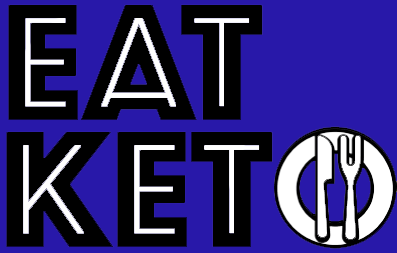
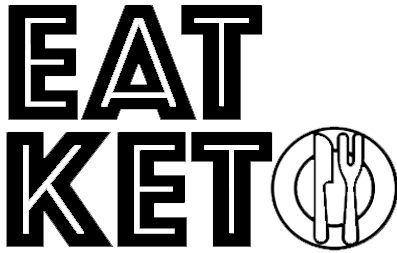
new theme color

diff --git a/src/components/layout/header.js b/src/components/layout/header.js
@@ -3,14 +3,14 @@ import PropTypes from 'prop-types';
 import AppBar from '@material-ui/core/AppBar';
 import Toolbar from '@material-ui/core/Toolbar';
 import IconButton from '@material-ui/core/IconButton';
-import Typography from '@material-ui/core/Typography';
 import MenuItem from '@material-ui/core/MenuItem';
 import Menu from '@material-ui/core/Menu';
 import { withStyles } from '@material-ui/core/styles';
 import AccountCircle from '@material-ui/icons/AccountCircle';
 import MoreIcon from '@material-ui/icons/MoreVert';
 
-import eatketoLogo from '../../assets/images/keto-eat.png';
+import eatketoLogo2 from '../../assets/images/keto-eat2.png';
+// import eatketoLogo from '../../assets/images/keto-eat.png';
 
 const styles = theme => ({
     root: {
@@ -136,10 +136,7 @@ class Header extends React.Component {
             <div className={classes.root}>
                 <AppBar position="fixed">
                     <Toolbar>
-                        <img src={eatketoLogo} alt="eat keto logo" className="logo" />
-                        {/* <Typography className={classes.title} variant="h6" color="inherit" noWrap>
-                            Keto Recipes App
-                        </Typography> */}
+                        <img src={eatketoLogo2} alt="eat keto logo" className="logo" />
 
                         <div className={classes.grow} />
                         <div className={classes.sectionDesktop}>

diff --git a/src/components/RecipeCards.js b/src/components/RecipeCards.js
@@ -53,10 +53,10 @@ const styles = theme => ({
   },
   fab: {
     margin: theme.spacing.unit,
-    backgroundColor: '#FF5722',
+    backgroundColor: '#0c5d3a',
     color: '#ffffff',
     "&:hover": {
-      backgroundColor: '#D84315'
+      backgroundColor: '#128854'
     }
   },
   cardGrid: {
@@ -73,7 +73,7 @@ const styles = theme => ({
   },
   cardContent: {
     flexGrow: 1,
-    backgroundColor: '#b3e5fc',
+    backgroundColor: '#80cbc4',
     padding: '5px',
     "&:last-child": {
       paddingBottom: '5px'
@@ -82,7 +82,7 @@ const styles = theme => ({
   container: {
     flexWrap: 'wrap',
     textAlign: 'center',
-    backgroundColor: '#b3e5fc',
+    backgroundColor: '#80cbc4',
     height: '100%'
   },
   typography: {
@@ -97,10 +97,10 @@ const styles = theme => ({
     marginLeft: theme.spacing.unit,
     width: 170,
     float: 'right',
-    backgroundColor: '#FF5722',
+    backgroundColor: '#0c5d3a',
     color: '#ffffff',
     "&:hover": {
-      backgroundColor: '#D84315'
+      backgroundColor: '#128854'
     },
     [theme.breakpoints.down('sm')]: {
       float: 'none',

diff --git a/src/App.css b/src/App.css
@@ -9,13 +9,18 @@ html {
   font-family: 'Lato', 'Arial', sans-serif;
   font-size: 14px;
   font-weight: 300;
-  color: #555;
+  background-color: #f5f5f5;
+  /* color: #555; */
   text-rendering: optimizeLegibility; /*makes fonts render nicely*/
 }
 
-body {
-  background-color: #FBE9E7;
+main {
+  background-color: #f5f5f5;
 }
+
+/* body {
+  
+} */
 
 .logo {
   width: 130px;
@@ -23,8 +28,7 @@ body {
 }
 
 .modal-dialog {
-  background-color: #FBE9E7;
-  /* background-color: #b3e5fc; */
+  background-color: #f5f5f5;
   height: 100%;
 }
 
@@ -108,11 +112,12 @@ padding-right: 20px;
 .foot-link {
   text-align: center;
   padding: 12px;
-  color: #FF5722;
+  color: #128854;
 }
 
 .foot-link:hover {
   font-weight: bold;
+  color: #4f9689;
 }
 
 .social-icons{

diff --git a/src/App.js b/src/App.js
@@ -14,20 +14,20 @@ import MuiThemeProvider from '@material-ui/core/styles/MuiThemeProvider';
 const theme = createMuiTheme({
   palette: {
     primary: {
-      light: '#e6ffff',
-      main: '#2818a9',
-      dark: '#006db3',
+      light: '#9c786c',
+      main: '#4d394b',
+      dark: '#40241a',
       contrastText: '#ffffff',
     },
     secondary: {
-      light: '#7b5e57',
-      main: '#4e342e',
-      dark: '#260e04',
+      light: '#8f9bff',
+      main: '#536dfe',
+      dark: '#0043ca',
       contrastText: '#000000',
     },
     text: {
-      primary: '#1a237e',
-      secondary: '#000a12',
+      primary: '#4b2c20',
+      secondary: '#424242',
     }
     // error: will use the default color
   },

diff --git a/src/components/RecipeDetails.js b/src/components/RecipeDetails.js
@@ -9,7 +9,7 @@ import Typography from '@material-ui/core/Typography';
 const styles = theme => ({
     container: {
         flexWrap: 'wrap',
-        backgroundColor: '#b3e5fc',
+        backgroundColor: '#80cbc4',
         height: '100%',
         padding: '5px'
     },
